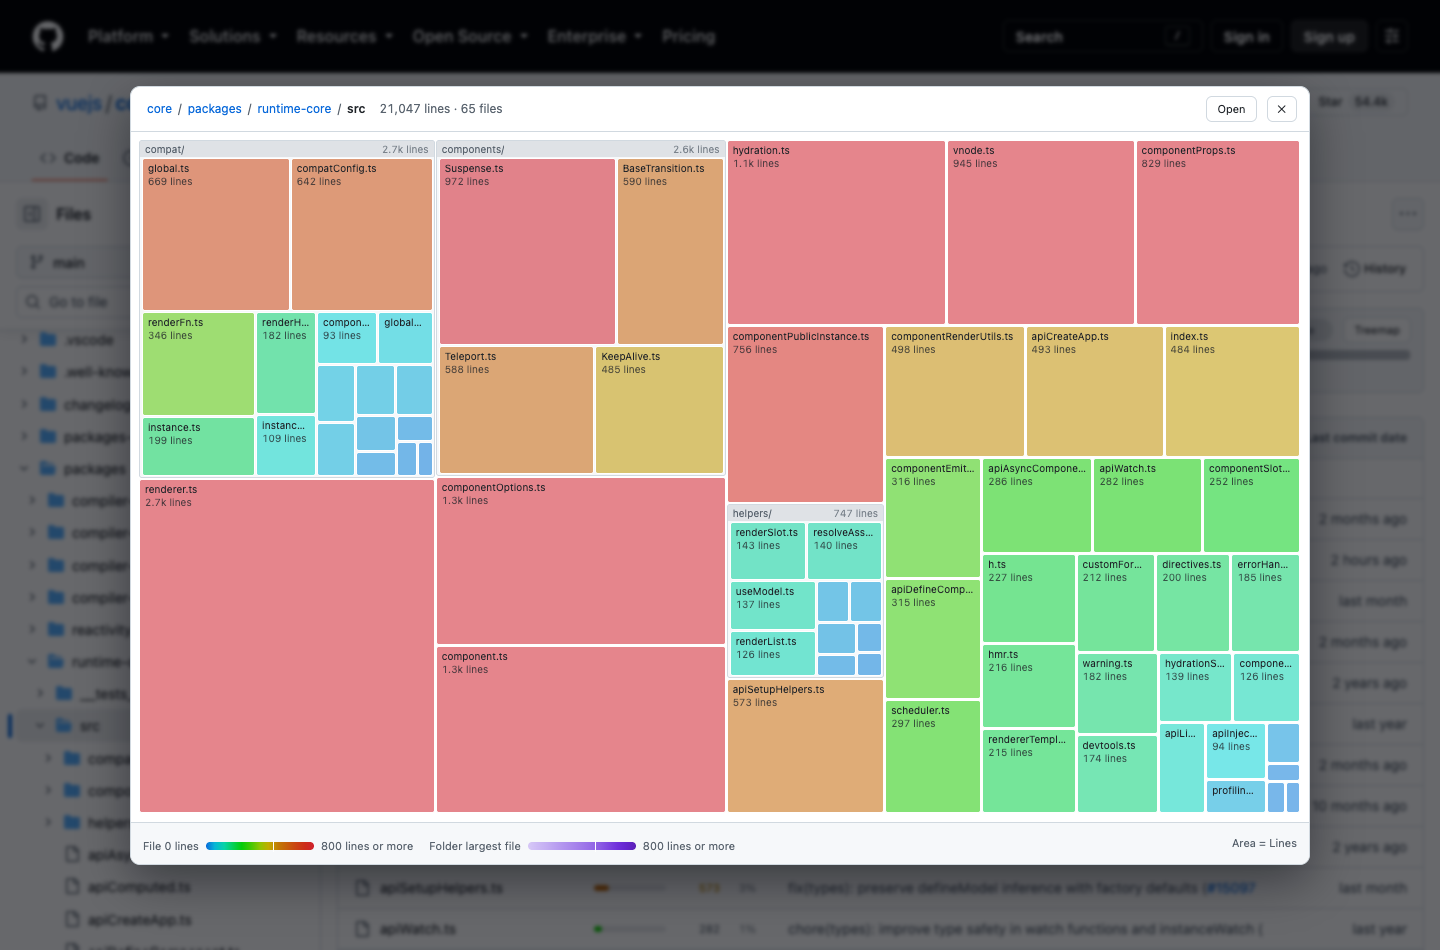
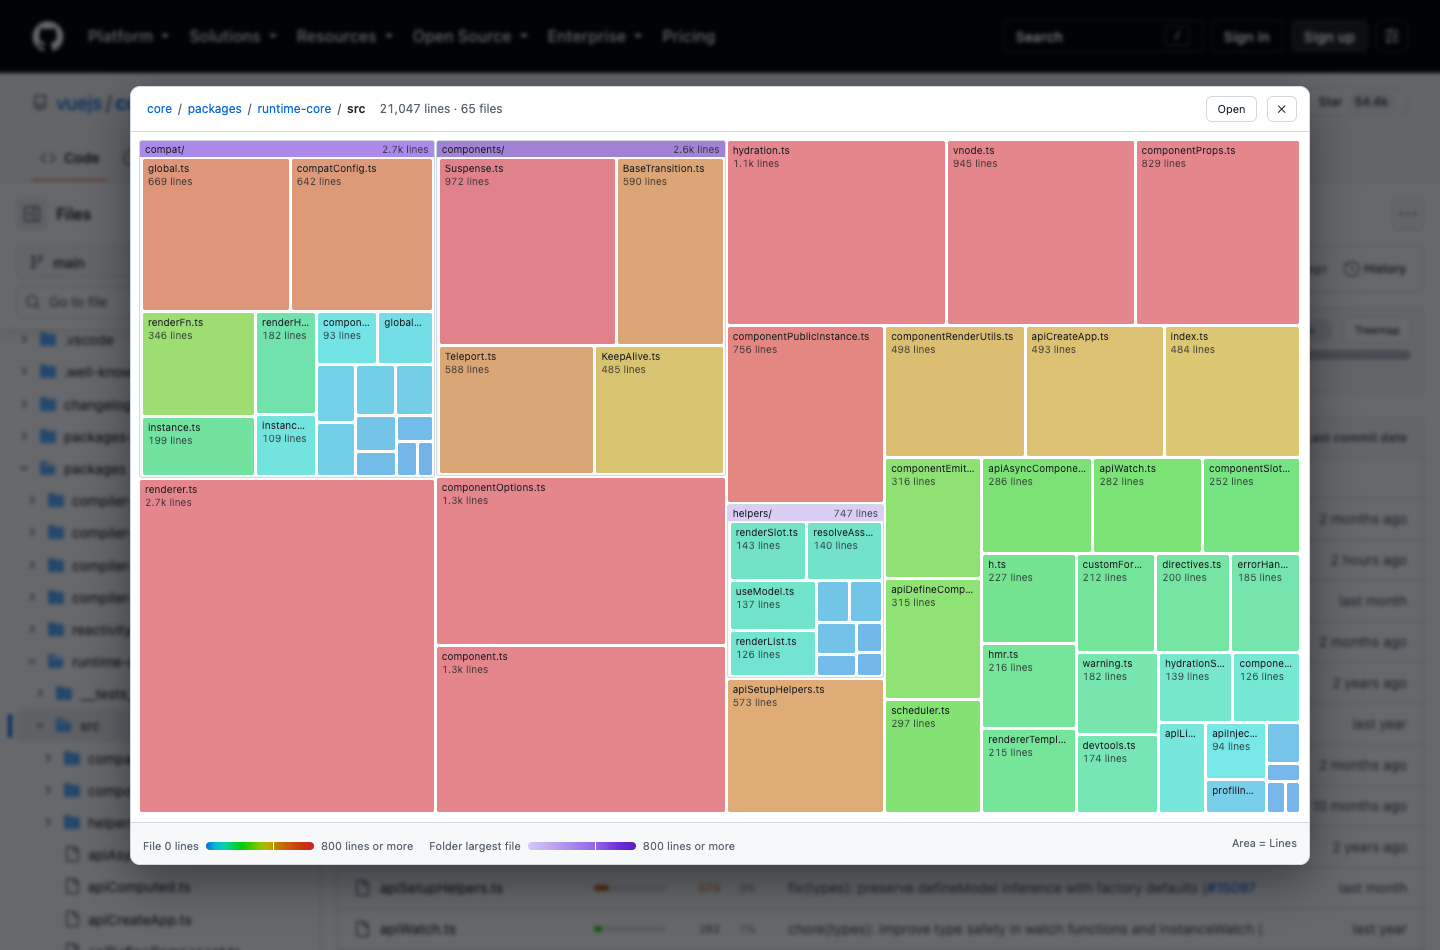
Colour a directory's header in the treemap too
Its tiles took the violet ramp but its header stayed flat grey — and the
header is the whole of a directory small enough to be folded up, so the
one place the colour would have told you something was the one place it
was missing. It now carries what its tile carries: how big the largest
file inside it is.

Changed region(s): [[0.0938, 0.1221, 0.5, 0.1832]]

diff --git a/src/content/treemap.js b/src/content/treemap.js
@@ -174,6 +174,9 @@
       el('span', { class: 'ghl-tm-name', text: node.name + '/' }),
       el('span', { class: 'ghl-tm-value', text: m.short(node) }),
     ]);
+    // The header is the only part of a folded-up directory you can see, so it
+    // carries the same colour its tile would.
+    head.style.background = m.fill ? m.fill(node, opts.settings, 0.55) : '';
     head.addEventListener('click', (e) => {
       e.stopPropagation();
       opts.onDrill(node.path);

diff --git a/src/styles/content.css b/src/styles/content.css
@@ -594,7 +594,7 @@ th:has(> .ghl-col-head)::after {
   padding: 0 5px;
   font-size: 10px;
   line-height: 16px;
-  color: var(--ghl-fg-muted);
+  color: var(--ghl-fg);
   background: var(--ghl-track);
   overflow: hidden;
   white-space: nowrap;
